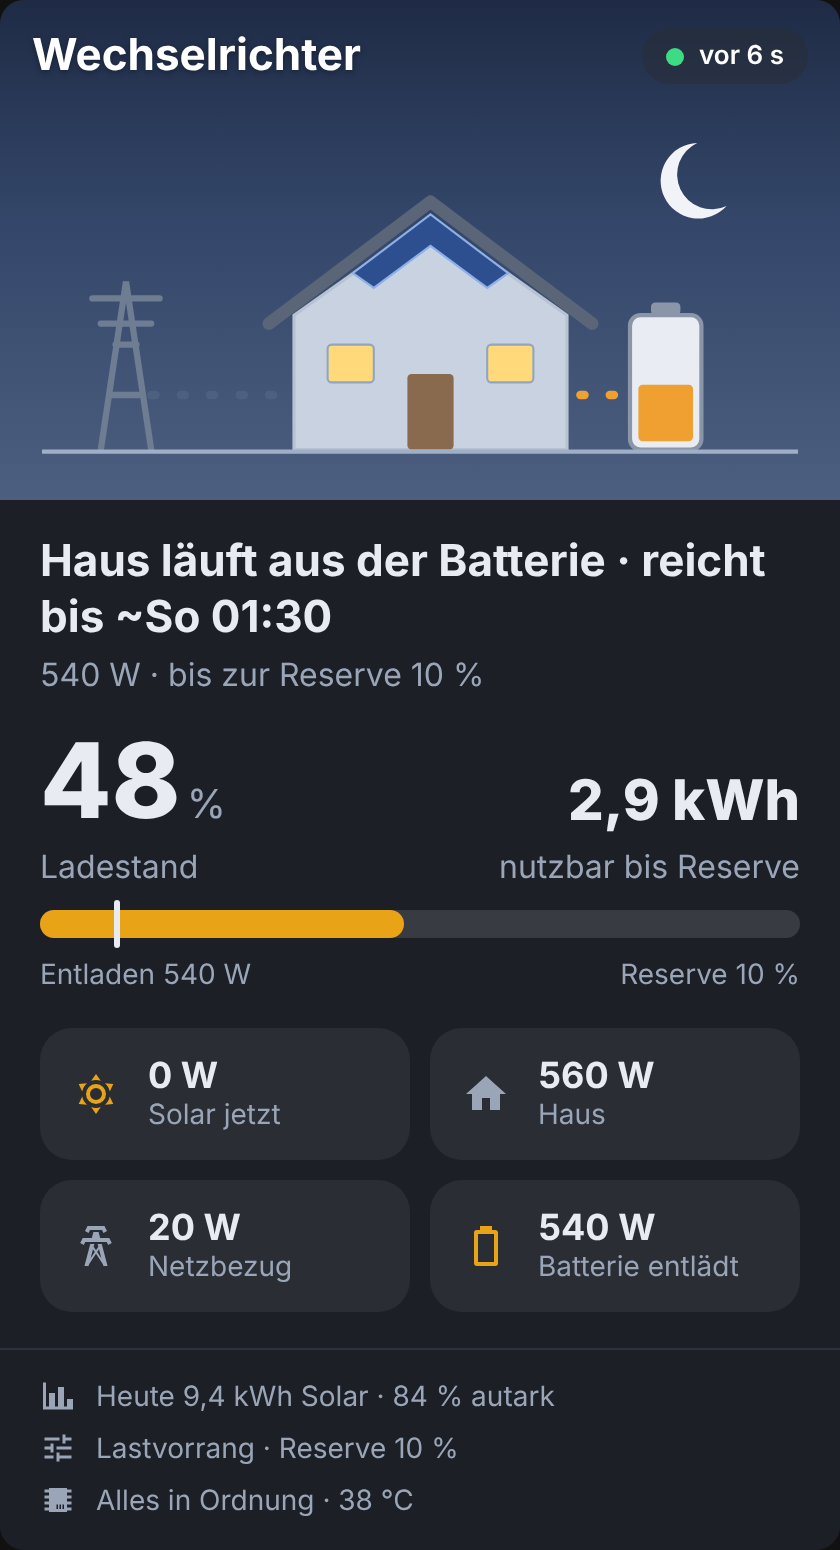
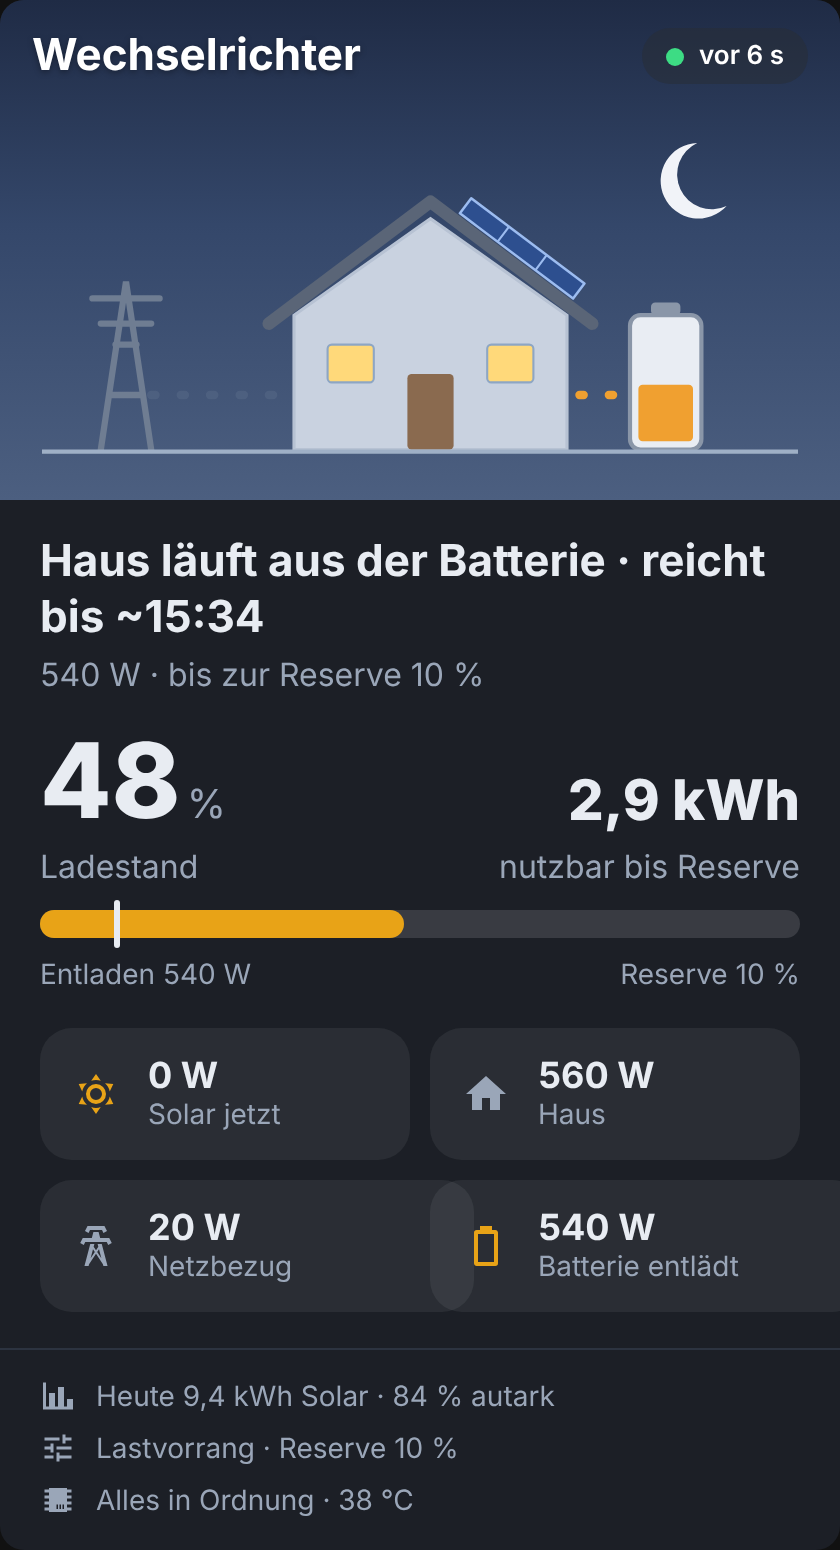
0.2.5: PV-Module außen auf der Sonnenseite

Changed region(s): [[0.4024, 0.1239, 0.7119, 0.1858], [0.1857, 0.3716, 0.4024, 0.4335]]

diff --git a/custom_components/growatt_sph_local/www/growatt-sph-card.js b/custom_components/growatt_sph_local/www/growatt-sph-card.js
@@ -19,7 +19,7 @@
  * MIT-Lizenz, Nutzung auf eigene Verantwortung.
  */
 
-const GSC_VERSION = "0.2.4";
+const GSC_VERSION = "0.2.5";
 const GSC_VIEWS = {
   overview: "Übersicht",
   today: "Heute & Verlauf",
@@ -308,7 +308,11 @@ class GrowattSphCard extends HTMLElement {
           <!-- Haus -->
           <path class="house" d="M140 176 V112 L205 66 L270 112 V176 Z"/>
           <path class="roof" d="M128 116 L205 58 L282 116"/>
-          <g class="pv"><path d="M168 92 L205 64 L242 92 L232 99 L205 79 L178 99 Z"/></g>
+          <!-- PV-Module außen auf der rechten Dachfläche (Sonnenseite) -->
+          <g class="pv">
+            <path d="M219 63.5 L272.9 104.1 L278.3 96.9 L224.4 56.3 Z"/>
+            <path class="cell" d="M237 77 L242.4 69.8 M254.9 90.6 L260.3 83.4"/>
+          </g>
           <rect class="door" x="194" y="140" width="22" height="36" rx="2"/>
           <rect class="win" x="156" y="126" width="22" height="18" rx="2"/>
           <rect class="win" x="232" y="126" width="22" height="18" rx="2"/>
@@ -317,7 +321,7 @@ class GrowattSphCard extends HTMLElement {
           <rect x="304" y="${172 - batH}" width="26" height="${batH}" rx="2" fill="${batColor}"/>
           <rect class="bat-cap" x="310" y="106" width="14" height="6" rx="2"/>
           <!-- Flüsse: Pfade laufen jeweils von der Quelle zum Ziel (Sonne→Dach, Netz→Haus, Batterie→Haus); .rev dreht um -->
-          ${night ? "" : `<path class="${flow(pvOn)}" d="M326 52 L224 80" style="--c:#f0b429"/>`}
+          ${night ? "" : `<path class="${flow(pvOn)}" d="M326 52 L258 73" style="--c:#f0b429"/>`}
           <path class="${flow(gridIn || gridOut, gridOut)}" d="M72 150 C100 150 120 150 140 150" style="--c:#7f8fa6"/>
           <path class="${flow(batIn || batOut, batIn)}" d="M300 150 C290 150 280 150 270 150" style="--c:${batIn ? "#2fa864" : "#f0a030"}"/>
           <line class="ground" x1="20" y1="177" x2="380" y2="177"/>
@@ -663,7 +667,8 @@ const GSC_STYLES = `
   .scene { display: block; width: 100%; height: auto; padding-top: 40px; }
   .scene .house { fill: #f4f6fa; stroke: #b7c2d3; stroke-width: 1.5; }
   .scene .roof { fill: none; stroke: #5a6577; stroke-width: 6; stroke-linecap: round; stroke-linejoin: round; }
-  .scene .pv path { fill: #2d4f8f; stroke: #8fb0e6; stroke-width: 1; }
+  .scene .pv path { fill: #2d4f8f; stroke: #9cbcf0; stroke-width: 1.2; stroke-linejoin: round; }
+  .scene .pv path.cell { fill: none; stroke: #9cbcf0; stroke-width: 1; }
   .scene .door { fill: #8a6a4f; } .scene .win { fill: #bcd3ee; stroke: #8ea6c4; }
   .night .scene .win { fill: #ffd97a; } .night .scene .house { fill: #c9d2e0; }
   .scene .bat { fill: #e9edf3; stroke: #8a96a8; stroke-width: 2; } .scene .bat-cap { fill: #8a96a8; }
